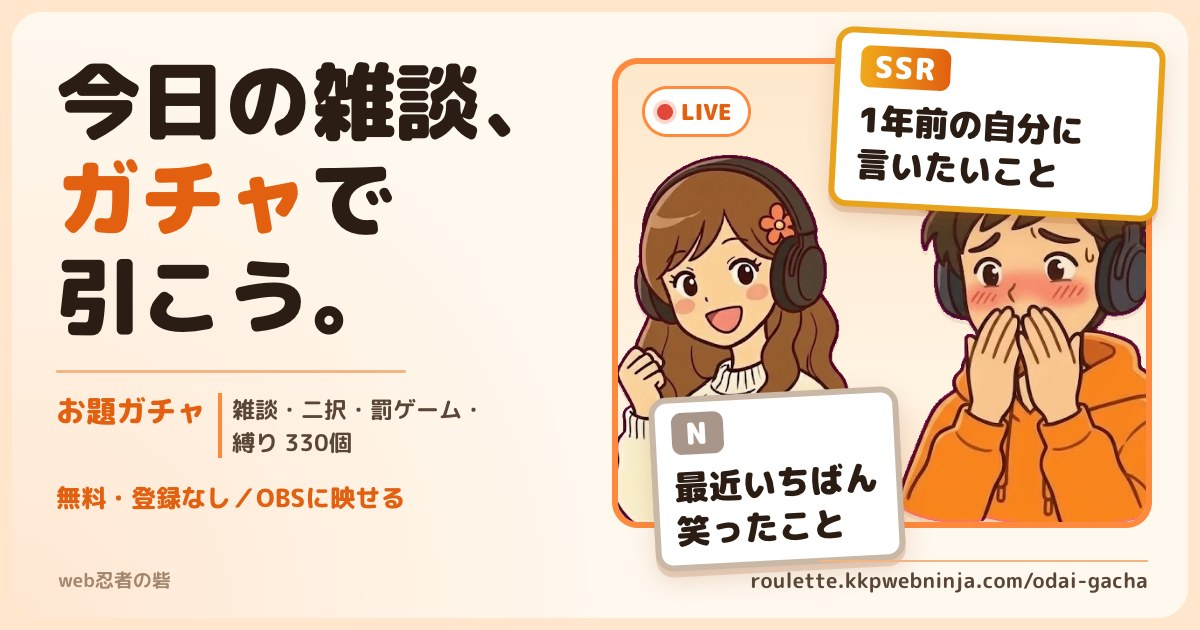
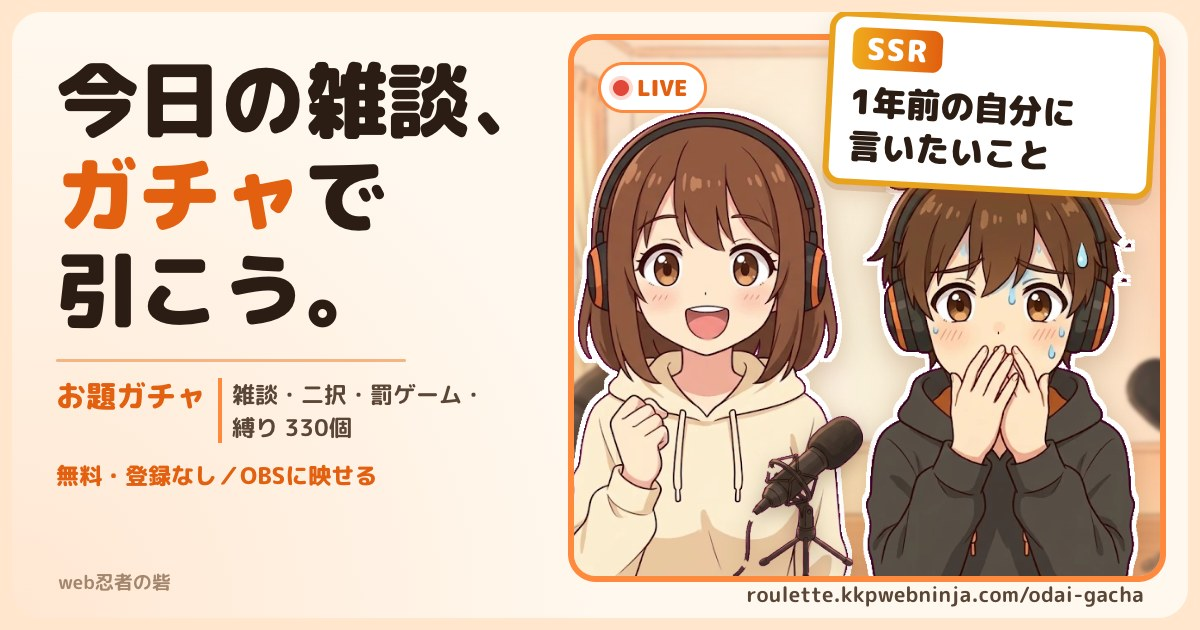
カード画像（OGP）を新しい2人の絵柄で作り直す
Canva の配信カウンターのカードと同じ2人（茶色の髪・オレンジのヘッドホン）を kkp-kit/img/chara2 に作り、人気サムネの型（顔を大きく・白いふち・場面の背景をぼかす・部品は3つまで）に合わせて kkp-kit の型から書き出し直した。
og:image・twitter:image を ?d=20261023b にして、SNS に新しい画像を読み直させる。

diff --git a/odai-gacha/index.html b/odai-gacha/index.html
@@ -20,9 +20,9 @@
 <meta property="og:type" content="website">
 <meta property="og:url" content="https://roulette.kkpwebninja.com/odai-gacha/">
 <meta property="og:site_name" content="配信ルーレット">
-<meta property="og:image" content="https://roulette.kkpwebninja.com/odai-gacha/ogp.jpg?d=20261023">
+<meta property="og:image" content="https://roulette.kkpwebninja.com/odai-gacha/ogp.jpg?d=20261023b">
 <meta name="twitter:card" content="summary_large_image">
-<meta name="twitter:image" content="https://roulette.kkpwebninja.com/odai-gacha/ogp.jpg?d=20261023">
+<meta name="twitter:image" content="https://roulette.kkpwebninja.com/odai-gacha/ogp.jpg?d=20261023b">
 <script src="/ga.js"></script>
 <!-- 共通部品 D4 の kit.js は defer なしで先に読む（配信モードの判定 KKit.stream を stream.js と広告より先に使う） -->
 <script src="/kit/kit.js?v=f58394c"></script>

diff --git a/counter/index.html b/counter/index.html
@@ -19,9 +19,9 @@
 <meta property="og:type" content="website">
 <meta property="og:url" content="https://roulette.kkpwebninja.com/counter/">
 <meta property="og:site_name" content="配信ルーレット">
-<meta property="og:image" content="https://roulette.kkpwebninja.com/counter/ogp.jpg?d=20261022">
+<meta property="og:image" content="https://roulette.kkpwebninja.com/counter/ogp.jpg?d=20261023b">
 <meta name="twitter:card" content="summary_large_image">
-<meta name="twitter:image" content="https://roulette.kkpwebninja.com/counter/ogp.jpg?d=20261022">
+<meta name="twitter:image" content="https://roulette.kkpwebninja.com/counter/ogp.jpg?d=20261023b">
 <script src="/ga.js"></script>
 <!-- 共通部品 D4 の kit.js は defer なしで先に読む（配信モードの判定 KKit.stream を stream.js と広告より先に使う） -->
 <script src="/kit/kit.js?v=f58394c"></script>

diff --git a/index.html b/index.html
@@ -21,9 +21,9 @@
 <meta property="og:type" content="website">
 <meta property="og:url" content="https://roulette.kkpwebninja.com/">
 <meta property="og:site_name" content="配信ルーレット">
-<meta property="og:image" content="https://roulette.kkpwebninja.com/ogp.jpg?d=20261023">
+<meta property="og:image" content="https://roulette.kkpwebninja.com/ogp.jpg?d=20261023b">
 <meta name="twitter:card" content="summary_large_image">
-<meta name="twitter:image" content="https://roulette.kkpwebninja.com/ogp.jpg?d=20261023">
+<meta name="twitter:image" content="https://roulette.kkpwebninja.com/ogp.jpg?d=20261023b">
 <script src="/ga.js"></script>
 <!-- 共通部品 D4 の kit.js は defer なしで先に読む（配信モードの判定 KKit.stream を stream.js と広告より先に使う） -->
 <script src="/kit/kit.js?v=f58394c"></script>
